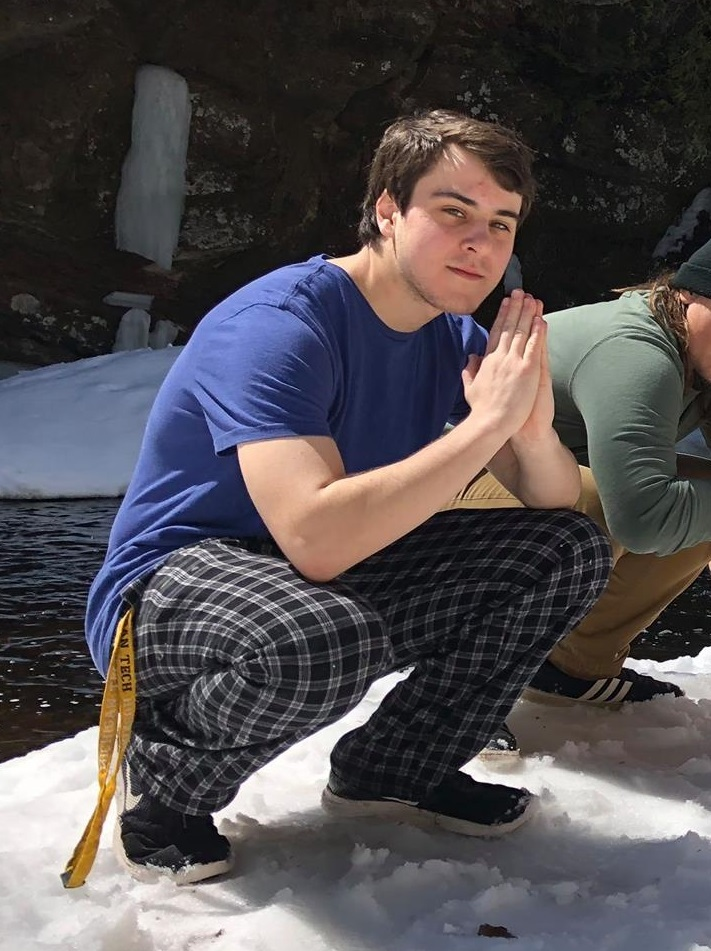
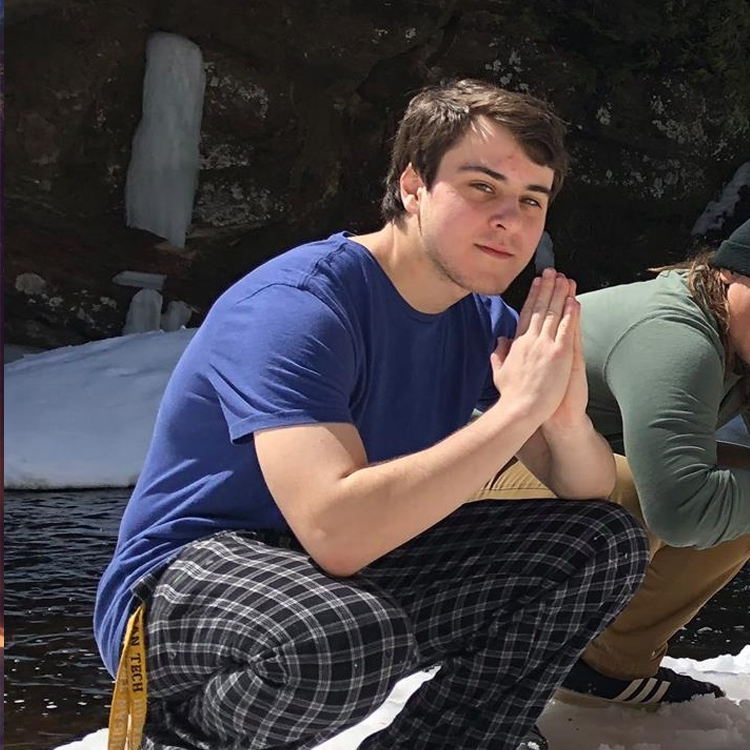
Made all images square

diff --git a/hide/src/components/home/Management.jsx b/hide/src/components/home/Management.jsx
@@ -75,7 +75,7 @@ function Management() {
                             <img src={window.location.origin + '/img/isaac_l.jpg'} alt="Isaac L"
                                  className="imageCentered img-fluid"/>
                             <h2>Isaac Long</h2>
-                            <p className="author">PillowTalk Lead</p>
+                            <p className="author">PillowTalk Team Lead</p>
                         </div>
                         <div className="item">
                             <img src={window.location.origin + '/img/shruti.jpg'} alt="Shruti G"
